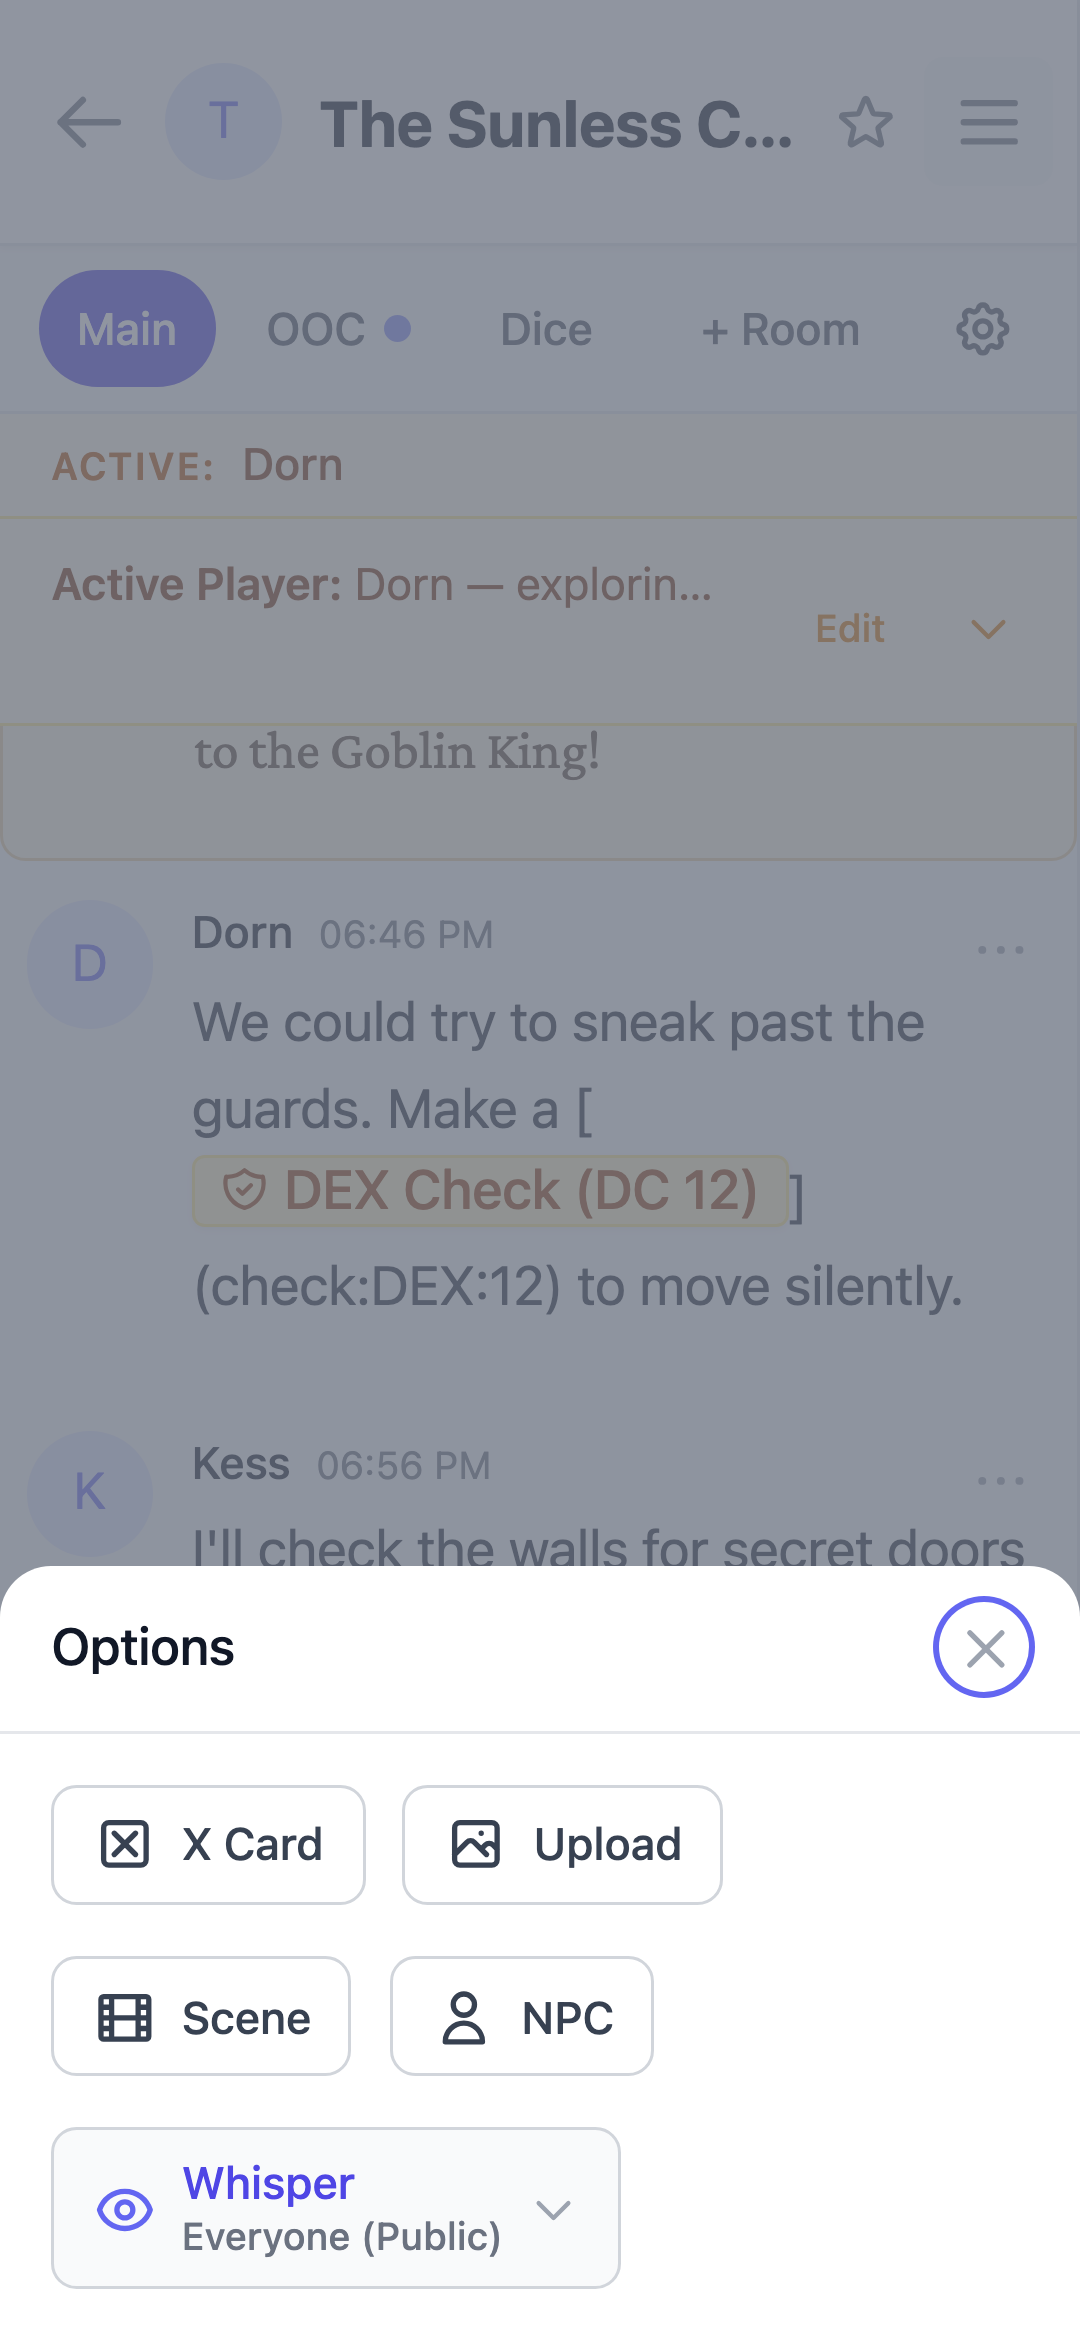
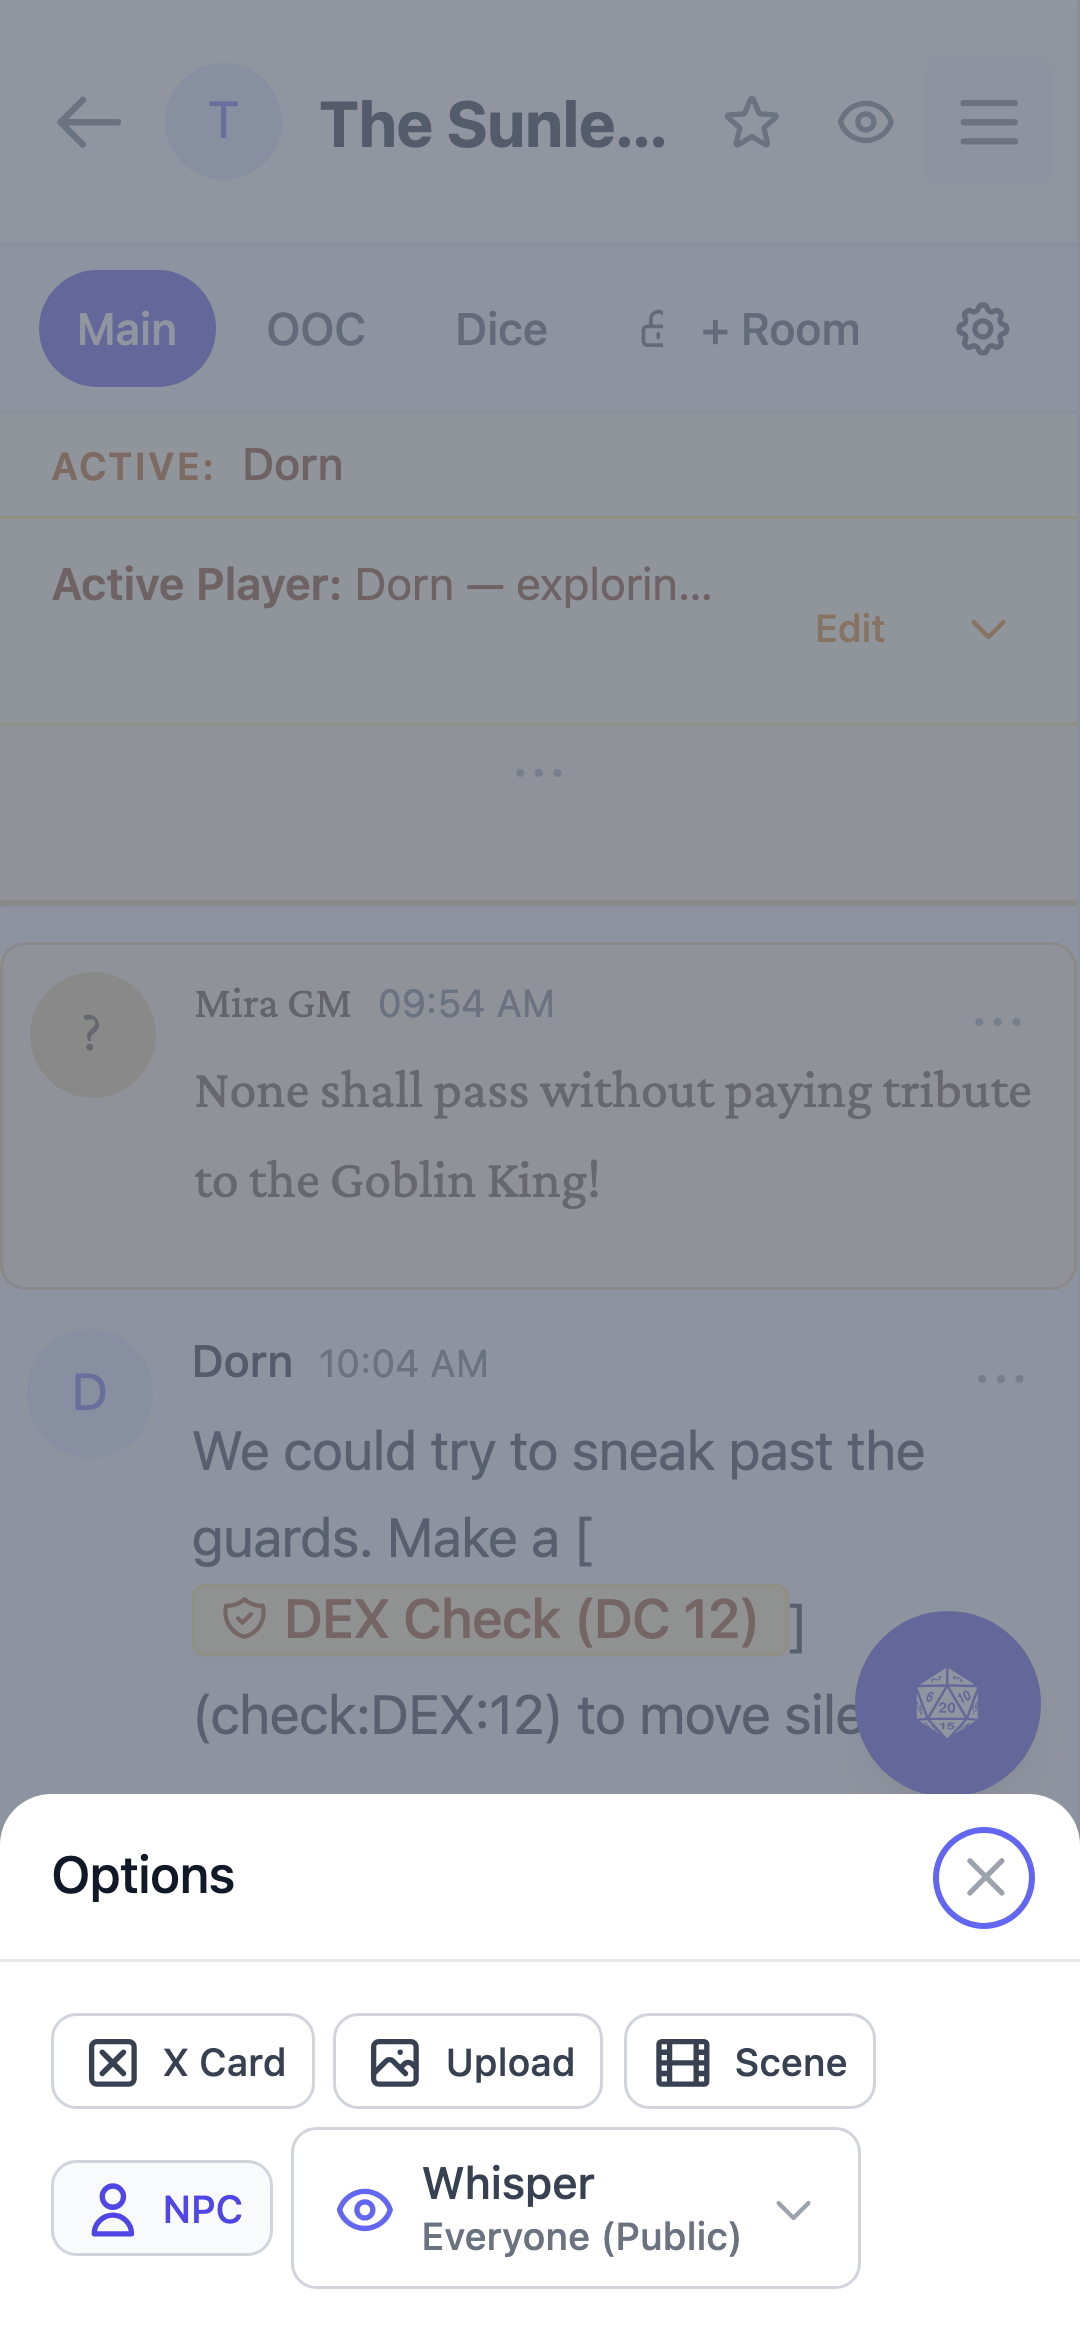
feat(#812): compact single-row composer options
The + options panel rendered three independent flex rows, so X-Card sat
alone on the first line and a phone spent three rows on five controls.
All five chips now share one wrapping row and use the compact chip size.

- chipBase: px-3 py-2 text-sm -> px-2 py-1 text-xs (shared with the dice
  chip), so the collapsed indicator overrides are now redundant
- Scene/NPC keep their isGM gate individually now the shared wrapper is gone
- Markdown toolbar frame tightened to px-1 py-0.5, buttons unchanged
- Regenerated npc-composer help screenshot at 360px

Closes #812

diff --git a/src/features/chat/MessageComposer.tsx b/src/features/chat/MessageComposer.tsx
@@ -600,8 +600,8 @@ export const MessageComposer = forwardRef<MessageComposerHandle, MessageComposer
   if (!capabilities.allow_whispers) offCapabilities.push('Whispers')
 
   const optionsContent = (
-    <div className="flex flex-col gap-4 w-full">
-      <div className="flex flex-wrap items-center gap-3">
+    <div className="flex flex-col gap-2 w-full">
+      <div data-testid="composer-options-row" className="flex flex-wrap items-center gap-1.5">
         {onXCard && (
           <button
             type="button"
@@ -644,11 +644,8 @@ export const MessageComposer = forwardRef<MessageComposerHandle, MessageComposer
             <span role="status">{uploading ? 'Uploading...' : 'Upload'}</span>
           </label>
         )}
-      </div>
 
-      {isGM && (capabilities.allow_scenes || capabilities.allow_npc) && (
-        <div className="flex flex-wrap items-center gap-3">
-          {capabilities.allow_scenes && (
+        {isGM && capabilities.allow_scenes && (
           <button
             type="button"
             aria-pressed={isScene}
@@ -662,9 +659,9 @@ export const MessageComposer = forwardRef<MessageComposerHandle, MessageComposer
             </svg>
             Scene
           </button>
-          )}
+        )}
 
-          {capabilities.allow_npc && (
+        {isGM && capabilities.allow_npc && (
           <button
             type="button"
             aria-pressed={isNpc}
@@ -678,11 +675,8 @@ export const MessageComposer = forwardRef<MessageComposerHandle, MessageComposer
             </svg>
             NPC
           </button>
-          )}
-        </div>
-      )}
+        )}
 
-      <div className="flex flex-wrap items-center gap-3">
         {!isScene && capabilities.allow_whispers && (
           <Menu
             icon={
@@ -953,7 +947,7 @@ export const MessageComposer = forwardRef<MessageComposerHandle, MessageComposer
                   type="button"
                   onClick={() => setIsExpanded(true)}
                   aria-label={`Edit ${chip.label}`}
-                  className={`${chipBase} ${chipActive} !px-2 !py-1 text-xs`}
+                  className={`${chipBase} ${chipActive}`}
                 >
                   {chip.icon}
                   {chip.label}

diff --git a/src/features/chat/MessageComposer.test.tsx b/src/features/chat/MessageComposer.test.tsx
@@ -605,10 +605,11 @@ describe('MessageComposer', () => {
     expect(screen.queryByRole('option', { name: /All players/ })).not.toBeInTheDocument()
   })
 
-  it('hides NPC mode from players', () => {
+  it('hides NPC mode and scene description from players', () => {
     render(<MessageComposer isGM={false} members={members} onSendMessage={vi.fn()} />)
     fireEvent.click(screen.getByLabelText('Toggle options'))
     expect(screen.queryByLabelText('NPC Mode')).not.toBeInTheDocument()
+    expect(screen.queryByLabelText('Scene Description')).not.toBeInTheDocument()
   })
 
   it('sizes the NPC portrait controls to 44px touch targets (issue #561)', () => {
@@ -919,8 +920,22 @@ describe('MessageComposer', () => {
 
     for (const chip of chips) {
       expect(chip).not.toBeNull()
-      expect(chip).toHaveClass('px-3', 'py-2', 'text-sm', 'font-medium', 'rounded-lg', 'border')
+      expect(chip).toHaveClass('px-2', 'py-1', 'text-xs', 'font-medium', 'rounded-lg', 'border')
     }
+  })
+
+  it('lays the composer options out in one wrapping row', () => {
+    render(<MessageComposer isGM={true} members={members} onSendMessage={vi.fn()} onXCard={vi.fn()} />)
+    fireEvent.click(screen.getByLabelText('Toggle options'))
+
+    const row = screen.getByTestId('composer-options-row')
+    expect(row).toHaveClass('flex-wrap')
+
+    expect(within(row).getByLabelText('X-Card')).toBeInTheDocument()
+    expect(within(row).getByLabelText('Upload Image').closest('label')).toBeInTheDocument()
+    expect(within(row).getByRole('button', { name: 'Scene Description' })).toBeInTheDocument()
+    expect(within(row).getByRole('button', { name: 'NPC Mode' })).toBeInTheDocument()
+    expect(within(row).getByText('Whisper')).toBeInTheDocument()
   })
 
   it('uploads an image and inserts the markdown at the cursor', async () => {

diff --git a/src/features/chat/composerChip.ts b/src/features/chat/composerChip.ts
@@ -1,5 +1,5 @@
 export const chipBase =
-  'inline-flex items-center gap-2 px-3 py-2 text-sm font-medium rounded-lg border transition-colors focus:outline-none focus:ring-2 focus:ring-offset-2 focus:ring-primary-500'
+  'inline-flex items-center gap-1.5 px-2 py-1 text-xs font-medium rounded-lg border transition-colors focus:outline-none focus:ring-2 focus:ring-offset-2 focus:ring-primary-500'
 export const chipIdle =
   'bg-white dark:bg-surface-800 border-surface-300 dark:border-surface-600 text-surface-700 dark:text-surface-300 hover:bg-surface-50 dark:hover:bg-surface-700 hover:text-primary-600 dark:hover:text-primary-400'
 export const chipActive =

diff --git a/src/features/chat/MarkdownToolbar.tsx b/src/features/chat/MarkdownToolbar.tsx
@@ -92,7 +92,7 @@ export function MarkdownToolbar({ onApply }: MarkdownToolbarProps) {
 
   return (
     <>
-      <div role="toolbar" aria-label="Text formatting" className="flex items-center gap-0.5 px-2 py-1">
+      <div role="toolbar" aria-label="Text formatting" className="flex items-center px-1 py-0.5">
         {actions.map((a, i) => (
           <button
             key={a.key}

diff --git a/docs/CHANGELOG.md b/docs/CHANGELOG.md
@@ -2,6 +2,12 @@
 
 All notable changes to this project are documented in this file.
 
+## 2026-11-12
+
+### Changed
+
+- **The composer's options take less room** — the buttons behind the composer's **+** menu (X-Card, Upload, Scene, NPC and Whisper) are now smaller and sit on one line whenever they fit, instead of one line per group. On a narrow phone they still wrap, but the panel is noticeably shorter.
+
 ## 2026-11-11
 
 ### Added
